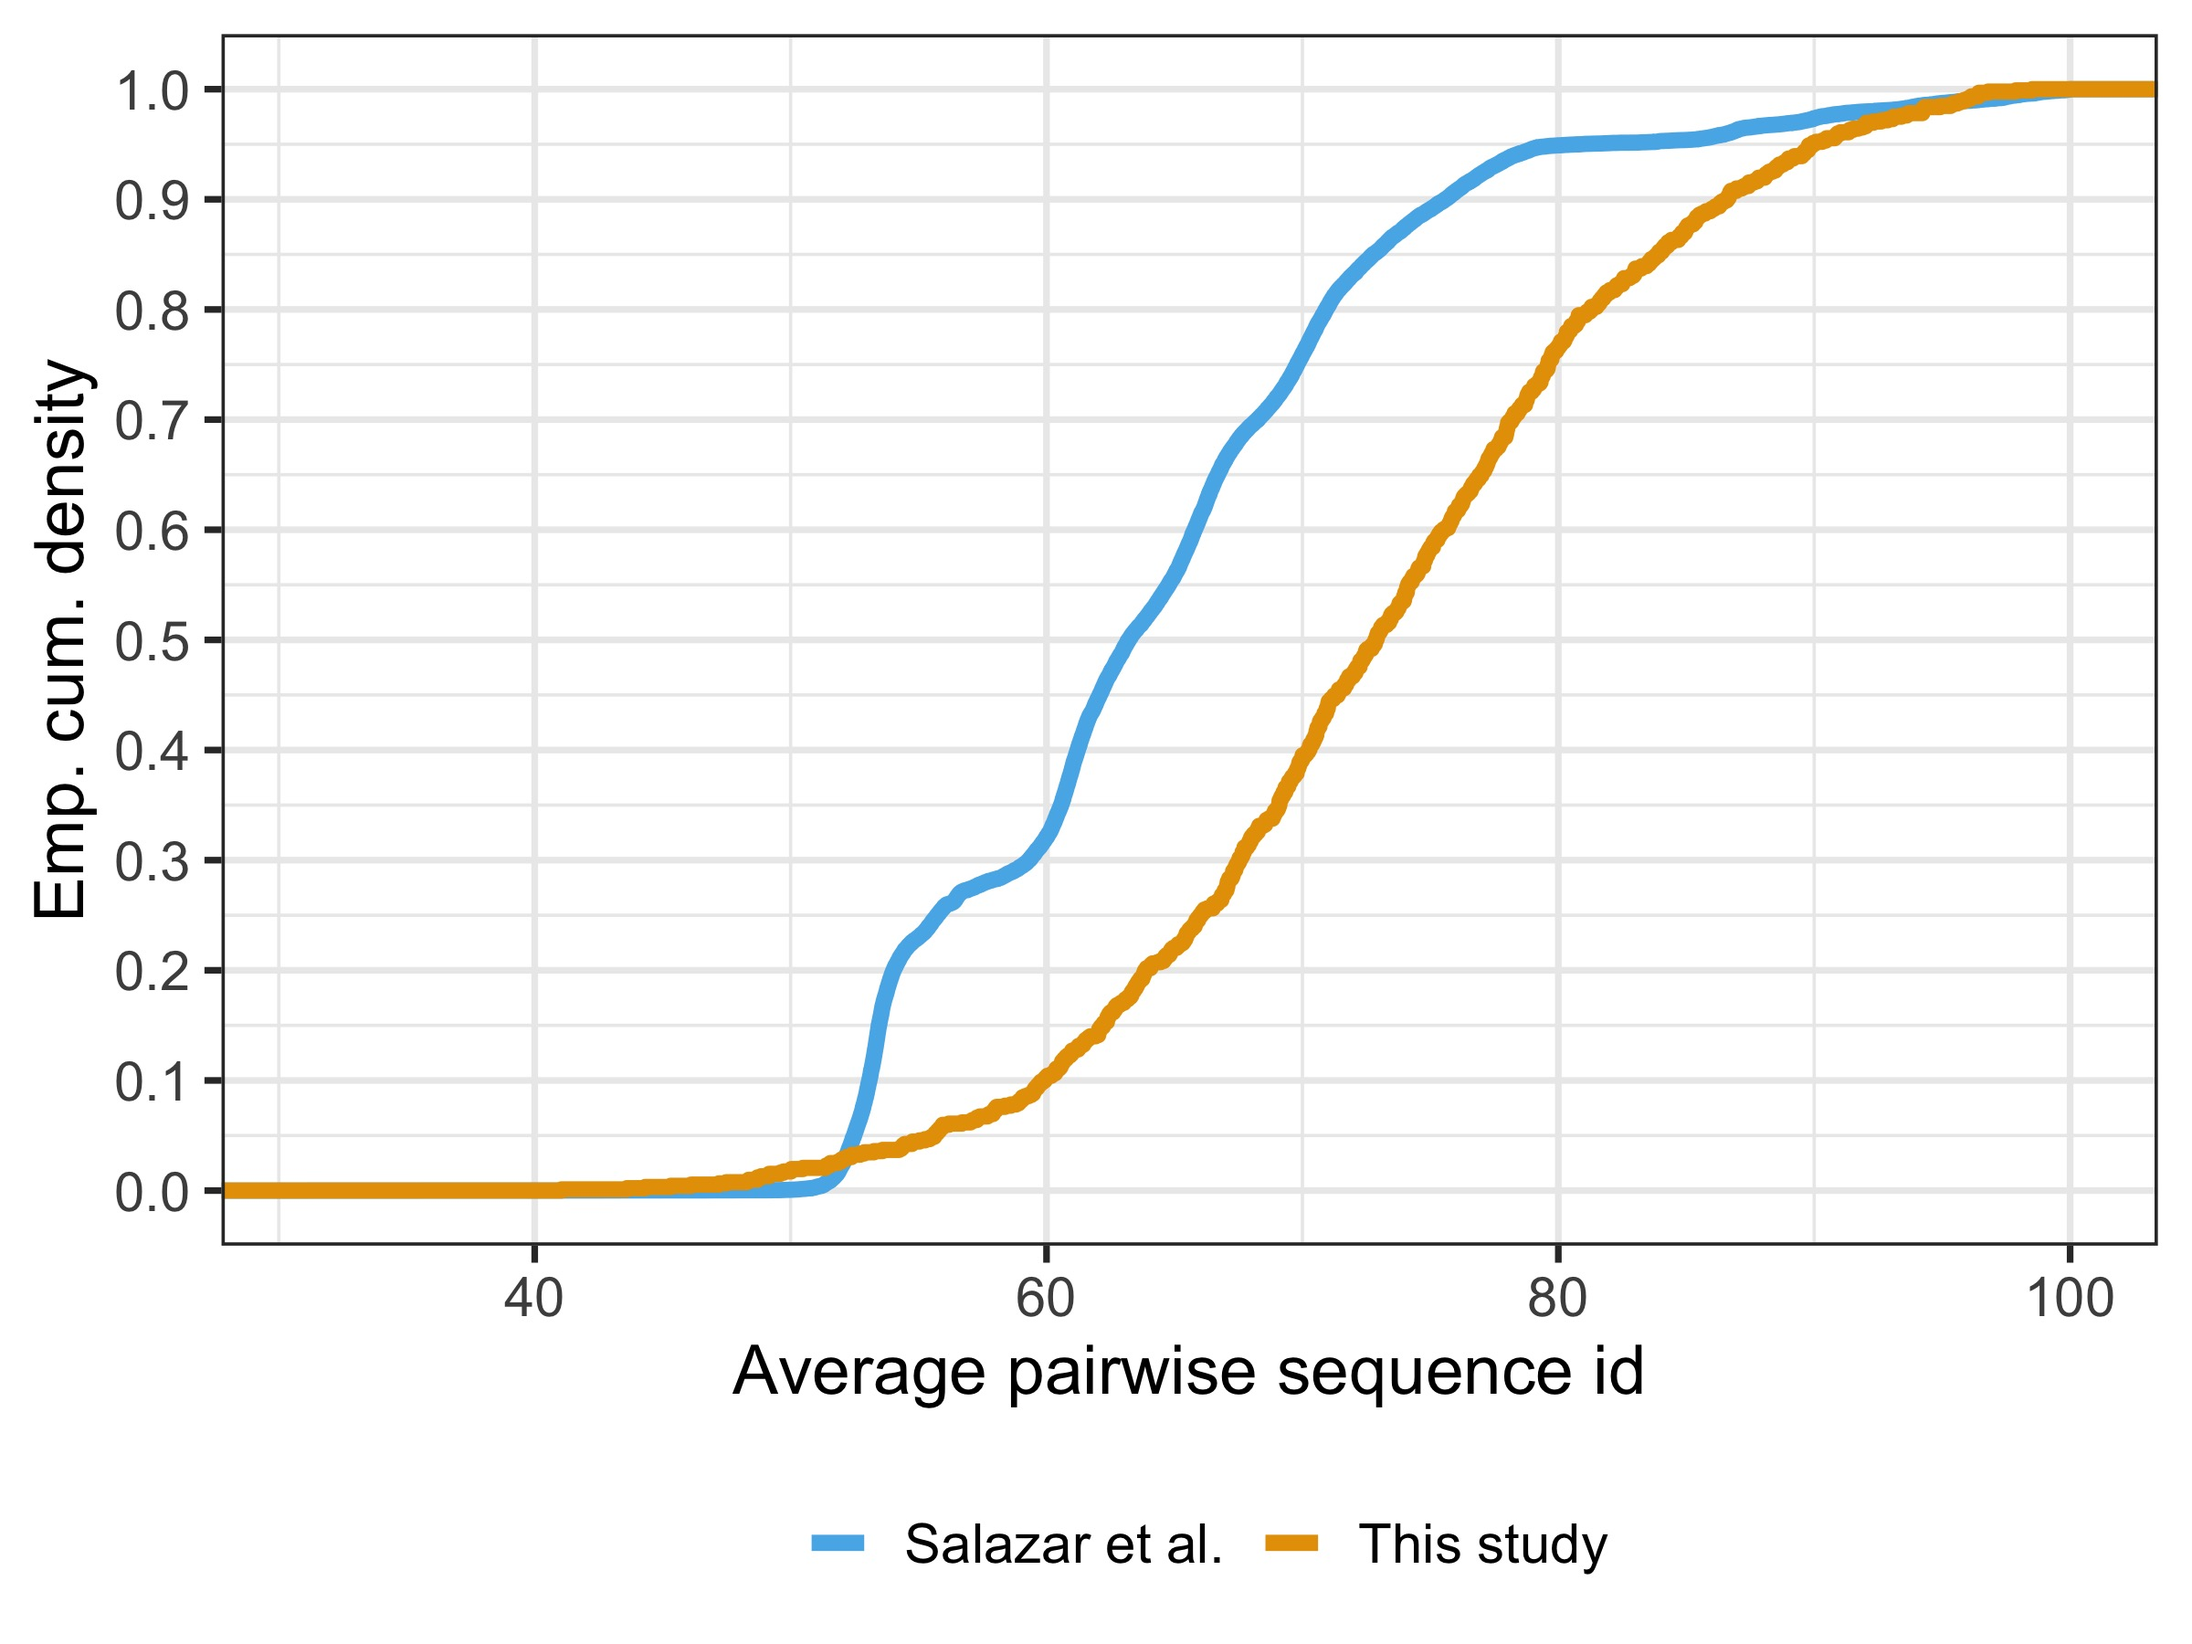
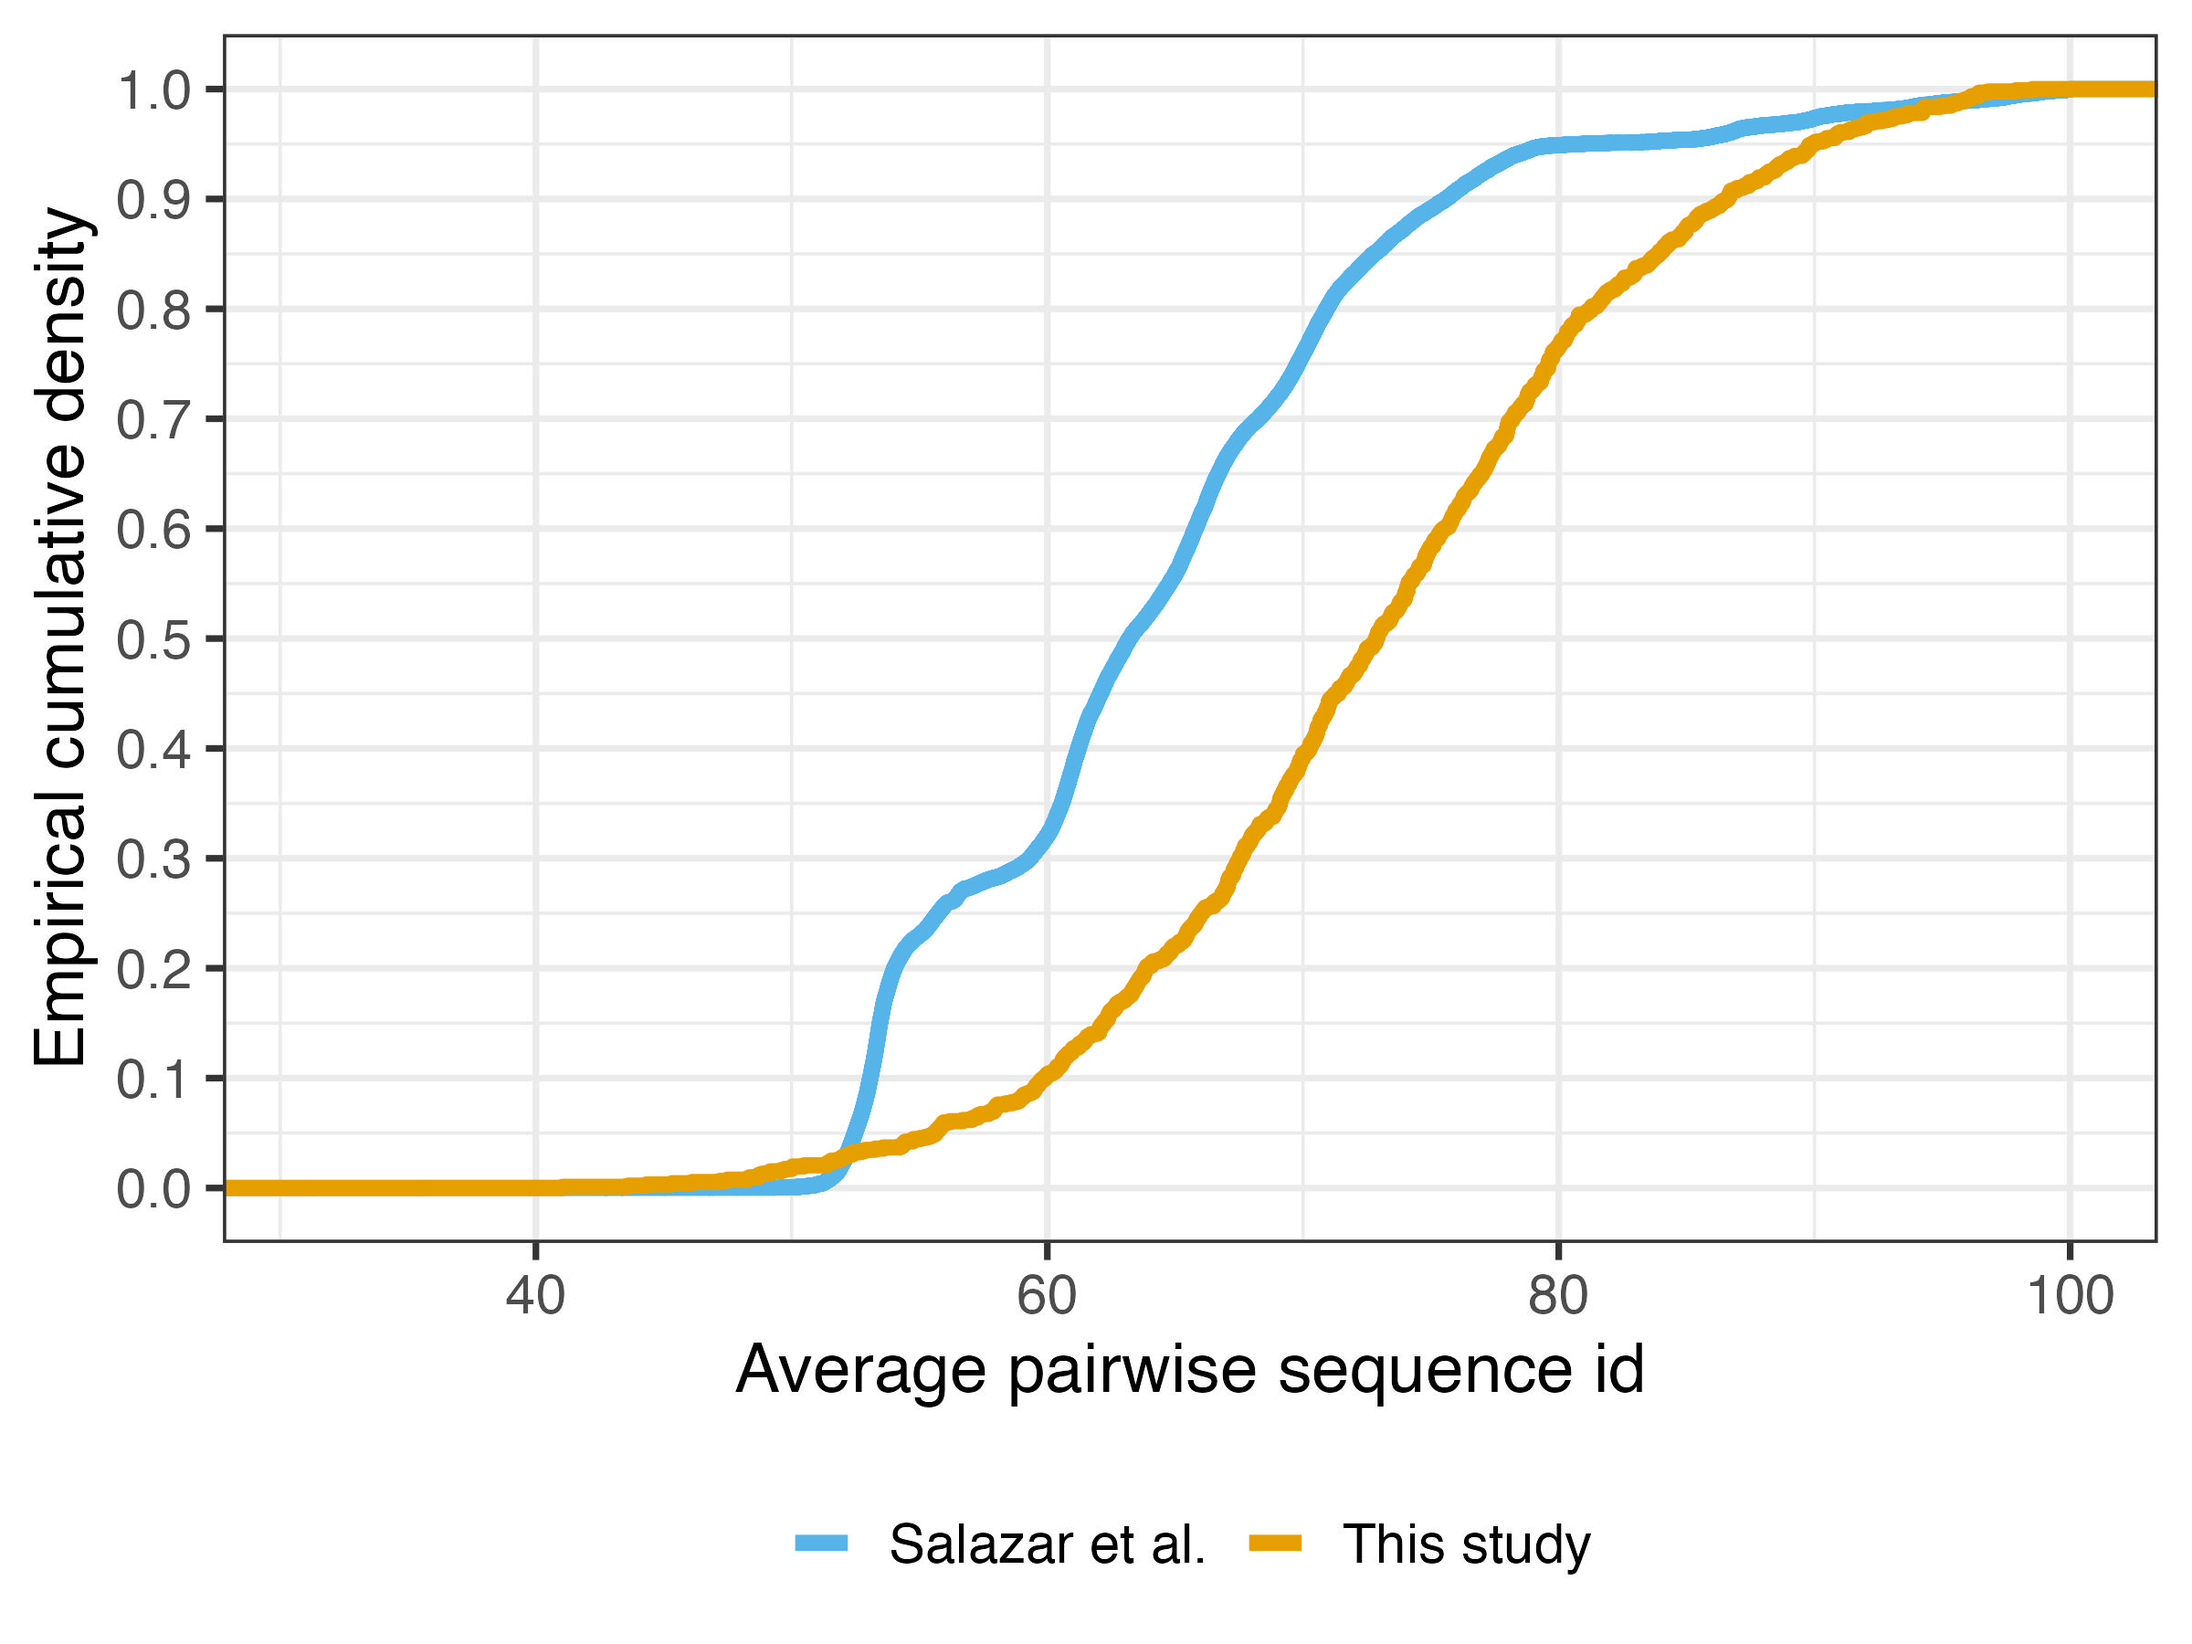
polish figures for manuscript

diff --git a/readme.md b/readme.md
@@ -62,6 +62,10 @@ of execution) that do the following steps:
 5. A small overview figure of species with RNA-seq data
 
 
+### Polish
+
+Folder contains scripts to re-create some of the plots from the main pipeline,
+just with minor polishing for the final publication.
 
 ### Reference trees
 
